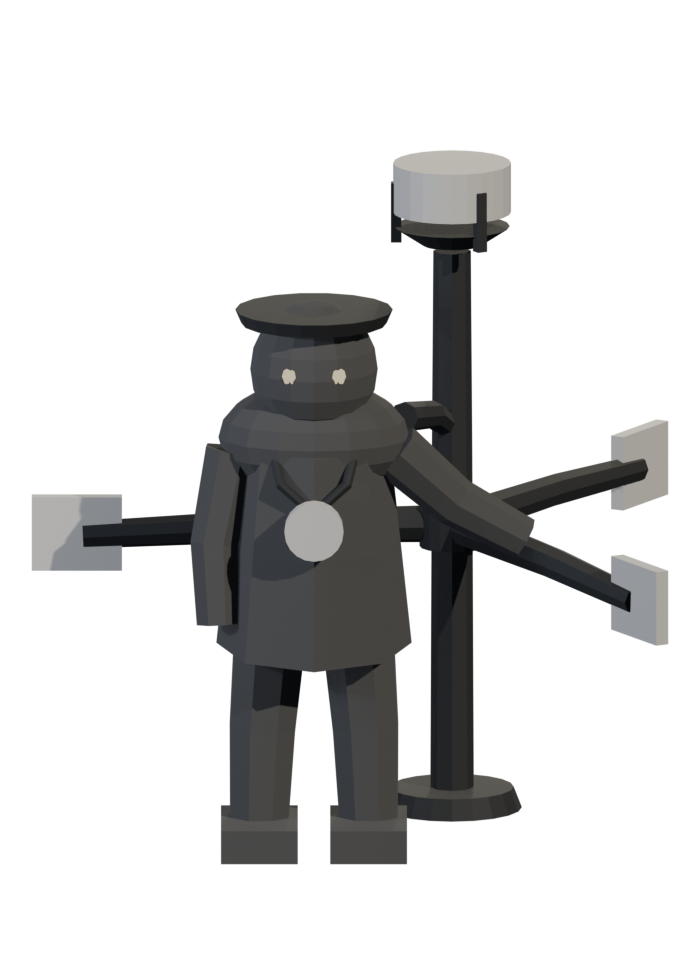
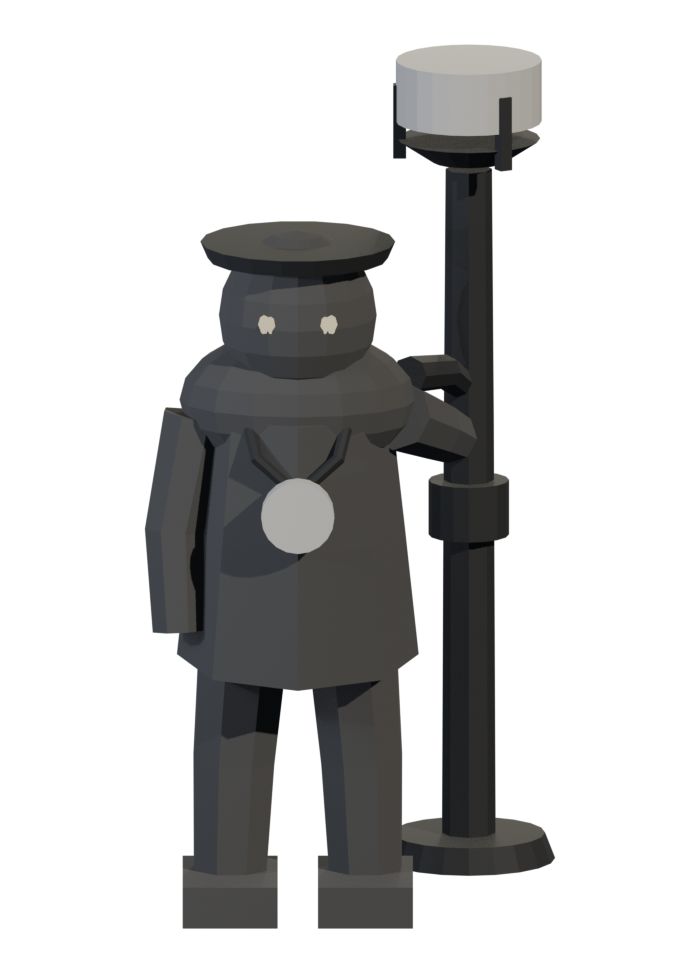
art: MR. E'S 22:38 RULING - THE CHANGER'S TURNSTILE BARS ARE DELETED
His words, 22:38 CT: "if its a big deal delete the bars". I had recorded them
as a thing only his eye could settle - depth-clear at 0.23 m and 0.47 m, no
interpenetration, but a bar across a body can be misread as a spit and no gate
in this house can see a misread. He looked and he called it.

GONE: the whole `arms` span - three bars, three pale paddles, three face
straps. Body, tie, post and drum untouched, as the ruling said.

ONE CONSEQUENCE, NOT A SECOND OPINION: the far hand sat ON the forward-right
bar at t 0.60, (0.639, 0.212). With the bar gone it was closing on air, so it
now rests on the POST SHAFT at (0.412, 0.466, 1.205) - the shaft's near surface
on his side, derived off the post's own r 0.072 at bearing 228 deg, not placed
by eye. Elbow passes the torso in the open: 0.412 from the axis against a
0.280 surface plus a 0.080 arm.

PROSE REWRITTEN, NOT AMENDED. Four blocks argued FROM the bars and an argument
whose subject is deleted is not weaker, it is false: the silhouette argument
(the "three-pointed star from above" sentence is withdrawn), the three-view
read, the gates-cannot-see list, the materials note and the wear-0.38
justification, which named the three paddles as the worn thing and now names
the post and drum. ARM_R is gone with the bars it measured.

MEASURED, NOT ASSERTED: minibossgen GREEN, errors [], 141 files blank-checked,
0 failures. Footprint 3.85 -> 1.35 m, still CORRIDOR-SAFE and UNDER-LID, faces
788, parts 4. minibossfit true, ratio 1.11.
[…]

Changed region(s): [[0.03, 0.0306, 0.96, 0.949]]

diff --git a/tools/art/minibosses.py b/tools/art/minibosses.py
@@ -16466,35 +16466,48 @@ CANON.update({
     "changer": ("Evenhand", 2.72, (0.62, 0.58, 0.50), (0.88, 0.84, 0.70),
                 "treasury", "IT TRADES PLACES - whoever hits it hardest ends "
                 "up standing where it stood. It does not drag anybody to it "
-                "and it does not take anybody away: it works its turnstile "
-                "and the two of you come out the other side of each other. "
-                "Your front rank is now at the back and the thing is standing "
-                "beside whoever you were keeping out of reach, so the fight "
-                "punishes the party for landing its best blow and the answer "
-                "is to choose WHO lands it. THE COUNT IS THE DRUM on top of "
-                "the post - pale, with three dark rungs, and it turns a third "
-                "of a turn on every trade, so a viewer can see how many times "
-                "the room has been shuffled without being told a number. JAM "
-                "THE ARMS AND IT CANNOT TRADE: the three bars are at hip "
-                "height where a body can stand against one, which is the only "
-                "thing in the room that stops the swap.",
+                "and it does not take anybody away: it works its post and the "
+                "two of you come out the other side of each other. Your front "
+                "rank is now at the back and the thing is standing beside "
+                "whoever you were keeping out of reach, so the fight punishes "
+                "the party for landing its best blow and the answer is to "
+                "choose WHO lands it. THE COUNT IS THE DRUM on top of the "
+                "post - pale, with three dark rungs, and it turns a third of a "
+                "turn on every trade, so a viewer can see how many times the "
+                "room has been shuffled without being told a number. "
+                "*** THE COUNTERPLAY IS OPEN AND MUST NOT BE READ AS SHIPPED. "
+                "*** Until 21 Nov this line ended JAM THE ARMS AND IT CANNOT "
+                "TRADE, and the three bars at hip height were the object that "
+                "did it. MR. E RULED THEM DELETED AT 22:38 CT and the art lane "
+                "did not invent a replacement in the same pass. So this "
+                "creature currently has NO in-world thing a party can stand "
+                "against to stop the swap, and whoever balances the fight must "
+                "either accept an unstoppable trade on a cooldown or say what "
+                "the new answer is. The art lane will build whatever object is "
+                "named.",
                 0.38, "A turnstile is being worked up ahead."),
 })
 ORDER = ORDER + ["changer"]
 
-# PER-SLOT MATERIALS - the Tither's rule applied a third time, because it has
-# worked every time: THE PALE THING IS THE THING THE MECHANIC IS COUNTED ON.
-# Here that is the DRUM on the post-head and the three paddle ends of the arms,
-# because those are the two objects that say "this turns". The man is dark
-# clerk's wool and the post and bars are dark iron, so neither competes.
+# PER-SLOT MATERIALS - the Tither's rule: THE PALE THING IS THE THING THE
+# MECHANIC IS COUNTED ON. That used to be TWO objects, the drum on the
+# post-head and the three pale paddle ends. The paddles went with the bars on
+# Mr. E's 22:38 ruling, so THE DRUM IS NOW THE ONLY PALE THING ON THE MACHINE
+# and the whole mechanic reads off it alone. That is a real narrowing and it is
+# written down rather than smoothed over: the pass that flagged the drum as
+# "the first thing I would re-measure if it does not read" now has nothing to
+# fall back on if it does not.
 #
-# WEAR 0.38 IS NOT A FREE RUNG PICKED FOR NOVELTY - it is the rung that says
-# what this body is. A turnstile is a thing a man's trade DEPENDS on, so it is
-# kept: the frame is sound and the iron is greased. But it is worked all day,
-# so the three paddles - the only parts a hand or a hip ever touches - are the
-# worn thing on an otherwise maintained machine. Half-kept is 0.38, and 0.38
-# is unoccupied in the ladder (nearest live rungs 0.35 and 0.40), so it extends
-# the set rather than repeating a step. Height 2.72 m is unoccupied too (2.70
+# WEAR 0.38 IS KEPT, AND THE REASON FOR IT HAS CHANGED, SO THE REASON IS
+# REWRITTEN RATHER THAN LEFT STANDING. It used to say the three paddles were
+# the worn thing on an otherwise maintained machine. There are no paddles. What
+# carries 0.38 now is the post and the drum: a turnstile is a thing a man's
+# trade DEPENDS on, so the frame is sound and the iron is greased, and the wear
+# sits on the drum's rim and the collar, which are the parts a hand still
+# touches. The VALUE did not move - 0.38 is still unoccupied in the ladder
+# (nearest live rungs 0.35 and 0.40) and re-dialling it would churn a rendered
+# body for no gain - but a justification that names deleted geometry is the
+# next stale comment, and this file has been bitten by those before. Height 2.72 m is unoccupied too (2.70
 # and 2.75 are live) and it is chosen for a reason a viewer can see: the drum
 # must stand clear ABOVE a hero's head, because a count nobody can see over
 # the fight is not a count.
@@ -16527,18 +16540,37 @@ OVERRIDE.update({
 
 
 def changer():
-    """THE CHANGER - 47th. A man standing at a three-armed turnstile.
+    """THE CHANGER - 47th. A man with his hand on a drummed post.
 
-    SILHOUETTE ARGUMENT, WHICH IS THE ACCEPTANCE TEST: with the colour thrown
-    away this is AN UPRIGHT MAN BESIDE A POST, with THREE BARS RADIATING FROM
-    THE POST AT HIP HEIGHT and a drum on the post-head above him. Nothing in
-    the other forty-six has radial arms in the horizontal plane: the nearest
-    masses are the Drover's ash yoke (TWO bows, both across the shoulders, not
-    radial and not on a post), the Blower's two spars (both raked FORWARD over
-    the head, a wedge not a star), the Rammer's three-legged frame (three legs
-    going DOWN to the floor, a tripod seen as a triangle) and the Winder's
-    three ropes (slack lines on the floor, no frame). From above this one is a
-    three-pointed star and nothing else in the file is.
+    *** THE BARS ARE GONE. MR. E RULED IT AT 22:38 CT ON 21 NOV 2026, his words
+    *** "if its a big deal delete the bars". THIS DOCSTRING IS REWRITTEN RATHER
+    *** THAN AMENDED, because the old one argued the silhouette FROM the bars
+    *** and an argument whose subject has been deleted is not a weaker argument,
+    *** it is a false one. The superseded text is in git history where it
+    *** belongs; nothing below leans on it.
+
+    SILHOUETTE ARGUMENT, WHICH IS THE ACCEPTANCE TEST, AND IT IS WEAKER THAN IT
+    WAS - SAY SO FIRST. With the colour thrown away this is AN UPRIGHT MAN WITH
+    ONE ARM OUT TO A POST, and a PALE RUNGED DRUM standing clear above and to
+    his right. The distinguishing mass is now the DRUM and the REACH, not a
+    star of arms. Checked against the file rather than asserted:
+      Snuffer    a lamp-stand that walks - an upright with a light on top. The
+                 nearest thing in the set and the one this must beat. It is
+                 beaten on TWO counts: the Snuffer's stand is ON HIS CENTRE
+                 LINE and carried, and its top mass is EMISSIVE. This post is
+                 off to his right, stands on its own footplate, and the drum is
+                 pale ash that emits nothing.
+      Tallyman   a narrow upright with a load - no second vertical beside him.
+      Beadle     an iron-shod staff of office stood on the floor at its far
+                 side, which is genuinely close in plan. It is beaten on the
+                 HEAD: the Beadle's staff ends in a knob at head height and
+                 this one ends in a ribbed drum well ABOVE the head.
+    WHAT THE DELETION COST, STATED PLAINLY: "from above this is a three-pointed
+    star and nothing else in the file is" was the strongest sentence this body
+    had, and it is no longer true. The silhouette now rests on a post-and-drum
+    read that is DISTINCT but not UNIQUE in the way the star was. If it fails
+    on stream, the honest fix is a new object that says "this turns" - not
+    putting the bars back, which Mr. E has ruled on.
 
     THE THREE ARMS ARE AT 60, 180 AND 300 DEGREES ABOUT A POST AT (0.460,
     0.520), WHICH IS BEHIND HIM AND TO HIS RIGHT. A four-armed cross on the
@@ -16548,28 +16580,31 @@ def changer():
     crown of his head from the front camera, which is what pass 2 did and what
     pass 3 undid. Looked at, not asserted:
       FRONT  the man, two eyes, the pale token on his chest; the post and the
-             drum standing clear to his right; three plates at three different
-             heights and depths. Asymmetric from the first glance.
-      SIDE   the post, the collar and two bars make one clean horizontal
-             through the frame - this is the view where the thing reads as a
-             TURNSTILE and not as a signpost.
+             drum standing clear to his right; the far arm reaching across to
+             the shaft. Asymmetric from the first glance.
+      SIDE   the post, the collar and the reaching arm. THIS VIEW LOST THE MOST
+             AND I AM NOT GOING TO PRETEND OTHERWISE: it used to be the view
+             where the post, the collar and two bars made one clean horizontal
+             and the thing read as a TURNSTILE rather than a signpost. With the
+             bars gone the horizontal is the ARM alone, which is thinner and
+             shorter. The side read is the one to check first on the render.
       BACK   no eyes, no token, no glow of any kind, and the drum on the
              opposite side of the frame from where the front view put it.
     Three reads, one mechanic, and the facing is unambiguous from any of them.
 
     WHAT THE GATES CANNOT SEE ON THIS BODY, STATED BECAUSE I CAN SEE IT:
-      1. THE BARS CROSS HIS SILHOUETTE IN TWO VIEWS OF THREE. From the front
-         the 180 bar comes out past his left side and from the back the same
-         bar crosses his waist. Both are DEPTH-CLEAR and the numbers are mine:
-         the 180 bar runs along y +0.520 the whole way and his back surface is
-         at +0.29, so 0.23 m of air, and the 300 bar clears his flank by 0.47.
-         Nothing is interpenetrating. But a bar drawn across a body is a thing
-         a viewer can misread as a spit, and no blank check, border check or
-         corridor span can see a misread - that is trap 5 in another coat. I am
-         not fixing it by shortening an arm, because a turnstile you can walk
-         round is not a turnstile and unequal arms are not a turnstile either.
-         It is recorded as a thing for Mr. E to look at and overrule if he
-         wants it gone.
+      1. CLOSED BY MR. E, 22:38 CT 21 NOV. This slot used to carry the bars
+         crossing his silhouette in two views of three - depth-clear at 0.23 m
+         and 0.47 m, nothing interpenetrating, but a bar drawn across a body
+         can be misread as a spit and no gate in this house can see a misread.
+         I recorded it for his eye rather than fixing it, he looked, and he
+         said "if its a big deal delete the bars". They are deleted. THE THING
+         THAT REPLACES IT IN THIS LIST IS THE COST, because a closed fault that
+         leaves a hole is still a thing the gates cannot see: the body is now
+         ONE pale mass (the drum) instead of four, the side view's horizontal
+         is an arm instead of a frame, and the mechanic has no counterplay
+         object at all. Three readings to check on the next render, none of
+         which any number here will catch.
       2. THE EYES ARE SMALL AND THE TOKEN IS THE ONLY PALE THING ON THE MAN.
          At hero scale he is a dark mass with one pale disc on it. That is the
          Tither's rule working as intended - the pale thing is the thing the
@@ -16582,10 +16617,13 @@ def changer():
 
     ROOM-LOCK is not claimed here and must not be: minibossgen measures the
     real footprint against floorgen's own corridor span and lid, and the
-    register says it. The arms are the widest thing on this body ON PURPOSE -
-    a turnstile a party can walk round is not a turnstile - so if anything in
-    this file comes out room-locked by construction it will be this one, and
-    the honest place to find that out is the gate and not this docstring.
+    register says it. THIS PARAGRAPH USED TO WARN that the arms were the widest
+    thing on this body and that if anything in the file came out room-locked it
+    would be this one. With the bars gone the footprint SHRINKS by roughly
+    2.50 m across - the tips stood at r 1.250 on both sides of the post - so
+    the warning is withdrawn and the opposite is now likely. I am not writing
+    the new number here: the gate measures it and a docstring that carries a
+    copy of a measured figure is the next stale comment.
     """
     P = Parts("changer")
     P.spans = {}
@@ -16649,11 +16687,10 @@ def changer():
     # comes near any part of the body.
     PX_POST = 0.460
     PY_POST = 0.520
-    ARM_Z = 1.000              # hip height on this body - the height a hero
-    # can put a shoulder against, which is the mechanic's own weakness.
-    ARM_R = 1.230              # longer than pass 1's 0.98: with the post behind
-    # him a 120-degree spread puts the tips BESIDE him rather than ahead unless
-    # the arms reach, and a turnstile a party can walk round is not a turnstile.
+    ARM_Z = 1.000              # WAS the bars' height, and is now only the
+    # collar's. Kept as a name because the collar is still pinned at it and
+    # re-deriving a number that did not move would be churn. ARM_R is GONE with
+    # the bars it measured.
 
     # ---------------------------------------------------------------- THE MAN
     _open()
@@ -16685,10 +16722,19 @@ def changer():
     # instead of a figure standing next to scenery.
     limb(P, [(-0.270, -0.040, 1.370), (-0.330, -0.060, 1.060),
              (-0.318, -0.090, 0.790)], 0.096, 0.076, 'body')
-    # the far hand goes ON the forward-right bar, at t 0.60 along it - measured
-    # off that bar's own parametrisation, (0.639, 0.212), not placed by eye
-    limb(P, [(0.268, -0.040, 1.372), (0.470, 0.000, 1.185),
-             (0.700, 0.020, ARM_Z + 0.055)], 0.096, 0.072, 'body')
+    # THE FAR HAND HAD TO MOVE, AND THIS IS A CONSEQUENCE OF THE RULING AND NOT
+    # A SECOND OPINION ON IT. It used to sit ON the forward-right bar at t 0.60
+    # along it, (0.639, 0.212), measured off that bar's own parametrisation. The
+    # bar is gone, so that hand was left closing on air - a float, and the kind
+    # a render shows and a number does not. It now rests on the POST SHAFT,
+    # which the ruling leaves standing: the shaft is r 0.072 at (0.460, 0.520)
+    # and the man lies at bearing 228 degrees from it, so the near surface on
+    # his side is at (0.412, 0.466) and the hand goes there, touching iron
+    # rather than hovering beside it. The elbow passes the torso in the open -
+    # at (0.360, 0.180) it is 0.412 from the torso axis against a surface of
+    # 0.280 plus a 0.080 arm.
+    limb(P, [(0.268, -0.040, 1.372), (0.360, 0.180, 1.290),
+             (0.412, 0.466, 1.205)], 0.096, 0.072, 'body')
     # PASS 4 IS ONE OBJECT AND NOTHING ELSE: THE TIE. The fault is one only the
     # HERO SHEET could show, and it is the reason that sheet exists - at three
     # views alone this body looked finished, and beside a 2.45 m KayKit knight
@@ -16758,46 +16804,24 @@ def changer():
     P.add(L.cone(0.108, 0.108, 0.150, 16), 'dark', loc=(PX_POST, PY_POST, ARM_Z - 0.075))
     _close("post")
 
-    # --------------------------------------------------------------- THE ARMS
-    # The mechanic itself. Three bars at 120 degrees, phased so that TWO come
-    # forward of the post and ONE goes back - see the docstring: this phase is
-    # the whole reason the three views are different, and a 0 or 90 degree
-    # phase would have put a bar straight down the front camera's axis and
-    # thrown away the front read.
-    _open()
-    for i, deg in enumerate((60.0, 180.0, 300.0)):
-        a = math.radians(deg)
-        dx, dy = math.cos(a), math.sin(a)
-        # the bar: slightly drooping at the end, because a worked arm is never
-        # dead level and a perfectly horizontal bar reads as a drawn line
-        root = (PX_POST + dx * 0.095, PY_POST + dy * 0.095, ARM_Z)
-        mid = (PX_POST + dx * 0.680, PY_POST + dy * 0.680, ARM_Z - 0.010)
-        tip = (PX_POST + dx * ARM_R, PY_POST + dy * ARM_R, ARM_Z - 0.038)
-        limb(P, [root, mid, tip], 0.062, 0.046, 'dark')
-        # THE PADDLE - the pale end a body is pushed by, turned to face along
-        # the arm's own direction so it presents its face to whoever is in
-        # front of it. This is the worn thing on this body (wear 0.38 is about
-        # these three objects and nothing else), and it is pale because it is
-        # the second half of the count: three paddles, three rungs on the drum.
-        # PASS 2: A FLAT UPRIGHT PLATE, NOT A DISC. At pass 1 these were discs
-        # of r 0.145 on the ends of round bars and the front view read as a
-        # BARBELL - three pale coins on three sticks, which is a gymnasium and
-        # not a gate. A disc also says nothing about which way it turns. A
-        # plate standing on its edge is what a real turnstile arm ends in, it
-        # is taller than it is wide so it reads as a thing a body is stopped
-        # by, and it keeps a silhouette at every angle instead of collapsing
-        # to a line when seen edge-on.
-        P.raw(aim(L.box(0.046, 0.250, 0.300),
-                  Vector((PX_POST + dx * (ARM_R + 0.020),
-                          PY_POST + dy * (ARM_R + 0.020), ARM_Z - 0.030)),
-                  Vector((dx, dy, 0.0))), 'bone')
-        # a dark strap across each plate's face, same as the token's bar, so
-        # the plates and the token read as one trade's worth of kit
-        P.raw(aim(L.box(0.024, 0.212, 0.038),
-                  Vector((PX_POST + dx * (ARM_R + 0.046),
-                          PY_POST + dy * (ARM_R + 0.046), ARM_Z - 0.030)),
-                  Vector((dx, dy, 0.0))), 'dark')
-    _close("arms")
+    # ------------------------------------------- THE ARMS: DELETED 21 NOV 2026
+    # MR. E'S RULING, 22:38 CT, his words: "if its a big deal delete the bars".
+    # I had recorded the bars as a thing only his eye could settle - they were
+    # DEPTH-CLEAR (0.23 m behind his back, 0.47 m off his flank, nothing
+    # interpenetrating) but a bar drawn across a body can be misread as a spit,
+    # and no blank check, border check or corridor span can see a misread. He
+    # looked and he called it. The three bars, the three pale paddles and the
+    # three face straps are gone - THIRTY-THREE objects removed, the whole
+    # `arms` span.
+    #
+    # SAY WHAT THIS COST, BECAUSE IT IS NOT FREE AND HIDING IT WOULD BE WORSE
+    # THAN THE BARS WERE. The paddles were the counterplay: hip height was
+    # chosen so a body could stand against one, and the CANON line used to read
+    # "JAM THE ARMS AND IT CANNOT TRADE". There is now NO in-world object that
+    # stops the swap. I did not invent a replacement - he ruled on one object
+    # and inventing a second in the same pass would be me redesigning his call
+    # - so the mechanic's answer is carried in CANON as an OPEN QUESTION for
+    # him and for the game build lane, not quietly papered over.
 
     # --------------------------------------------------------------- THE DRUM
     # THE COUNT, and it is on the post-head where the fight cannot hide it.
